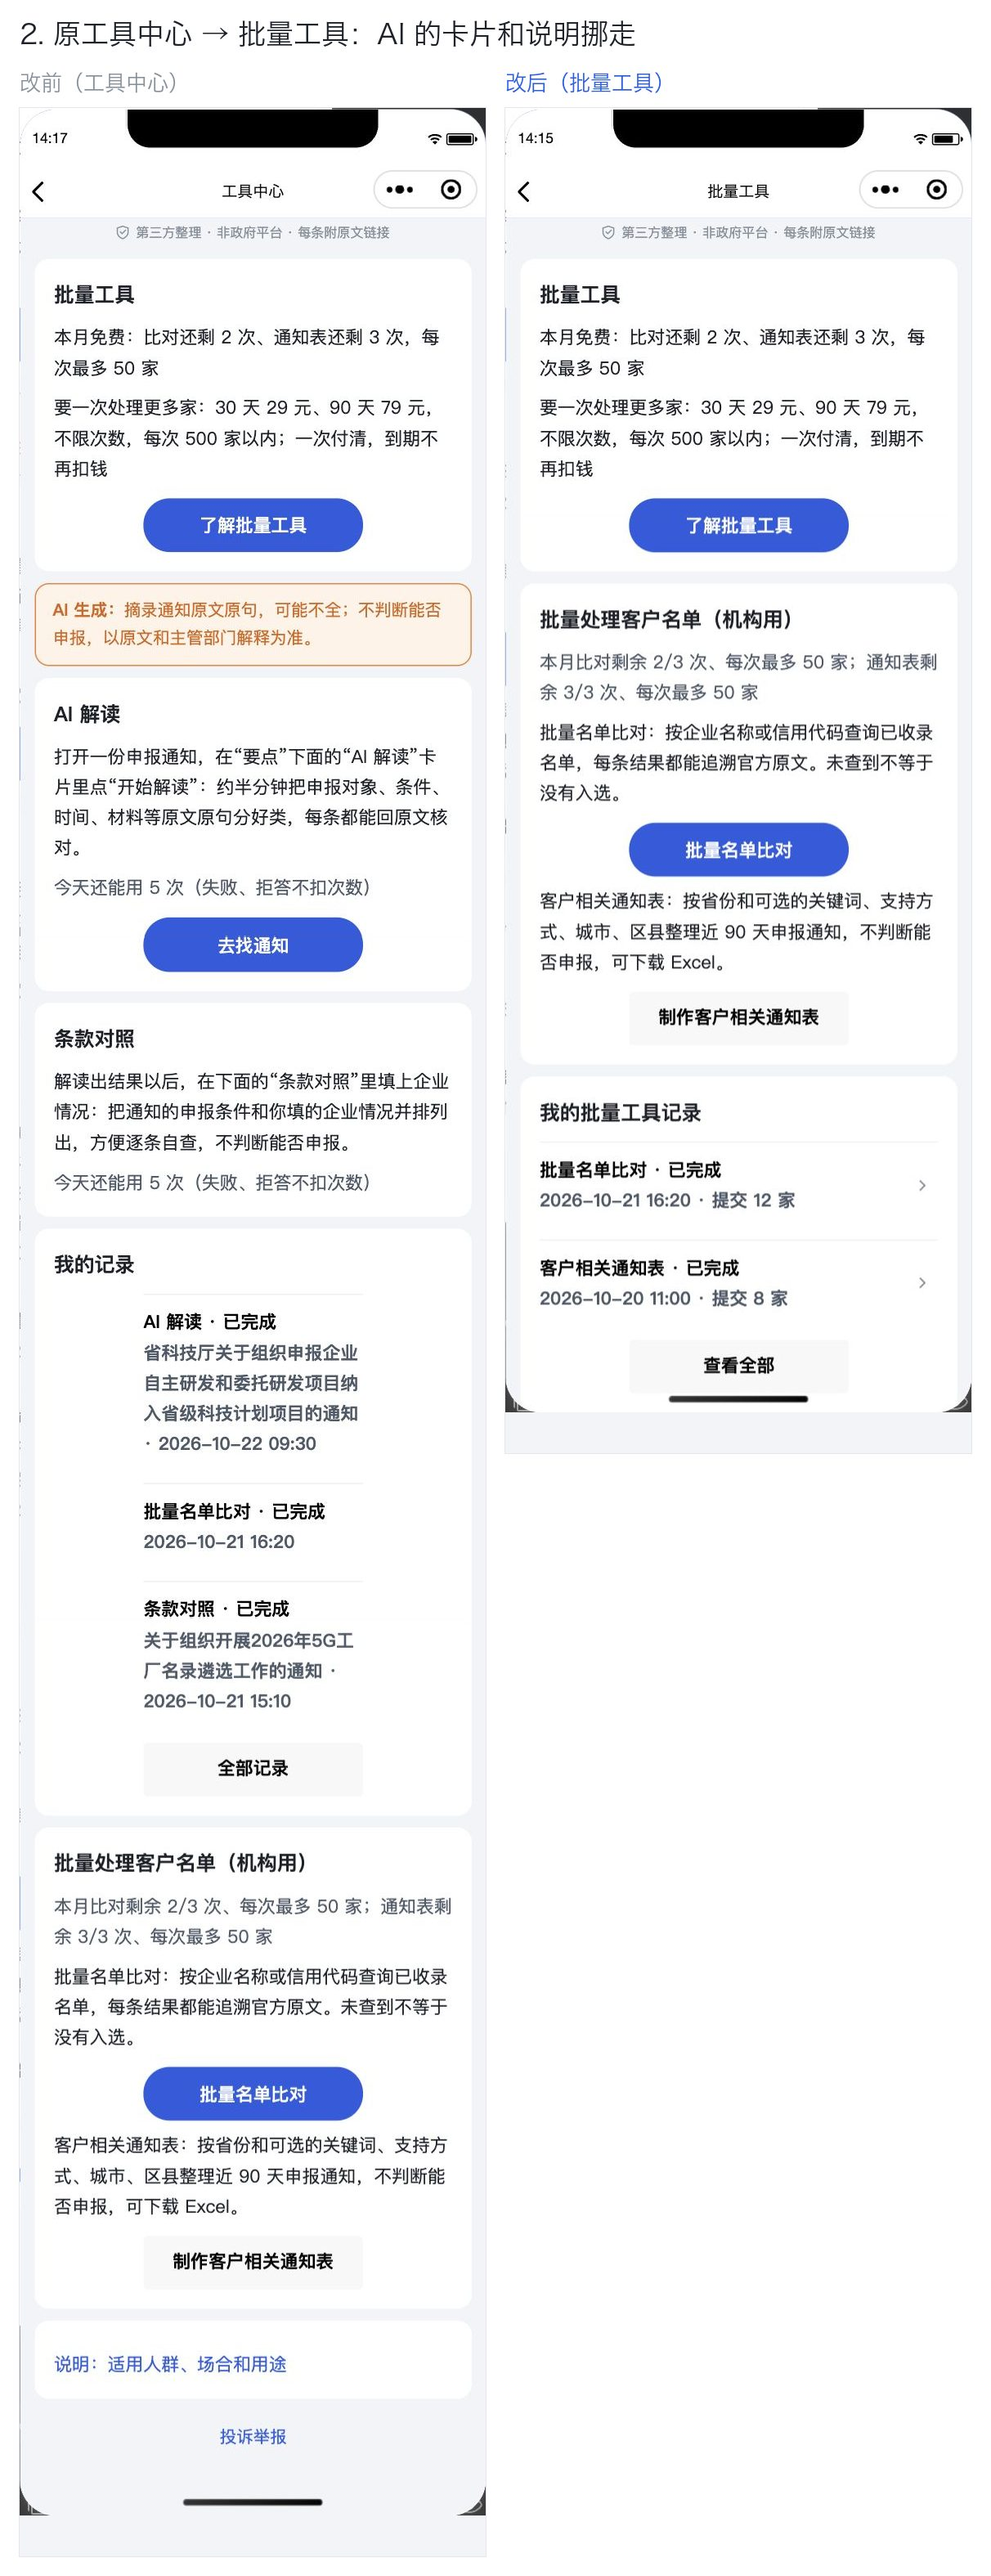
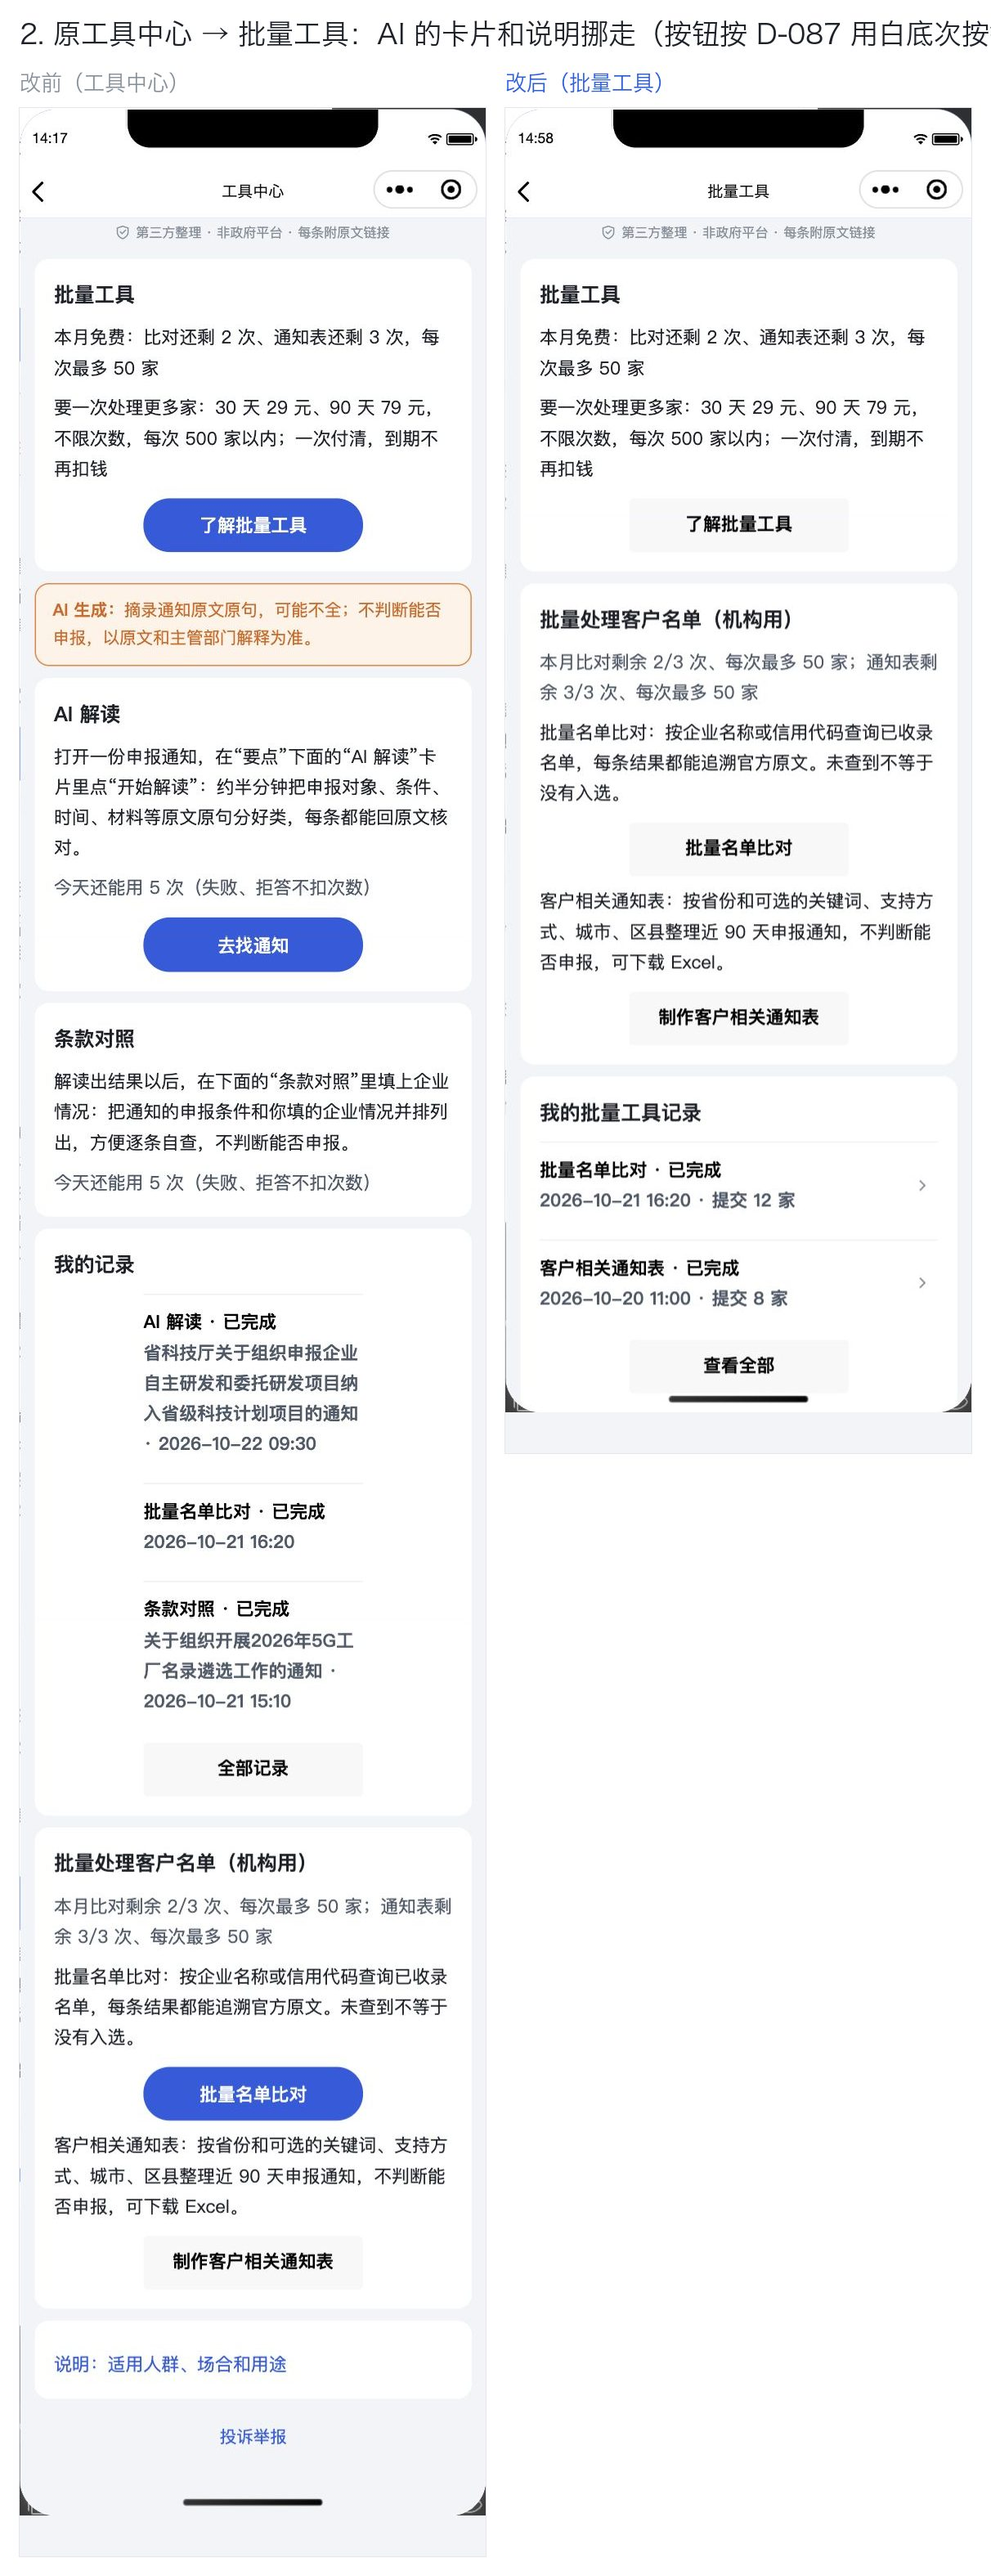
docs(设计)：批量工具页截图按 D-087 重截（白底次按钮）

diff --git a/docs/设计/AI板块第0步截图_2026-10-23/README.md b/docs/设计/AI板块第0步截图_2026-10-23/README.md
@@ -9,7 +9,7 @@
 | 图 | 内容 |
 |---|---|
 | 1_AI首页两行能点 | AI 首页两行能力能点；点"条款对照"进"选一份通知"；点"去掉"以后 |
-| 2_批量工具页 | 原工具中心 → 批量工具，AI 的卡片和说明挪走，记录只列批量工具的 |
+| 2_批量工具页 | 原工具中心 → 批量工具，AI 的卡片和说明挪走，记录只列批量工具的；按钮按 D-087（#341，创始人 10/23 定）用白底次按钮 |
 | 3_我的记录 | 标类型、从哪进来先筛好哪一种、从批量工具点某一条时标出那一条 |
 | 4_空记录 | 空的时候按入口指回"AI"或批量工具 |
 | 5_首页入口 | "工具中心 / 批量处理" → "批量工具 / 一次处理多家" |
